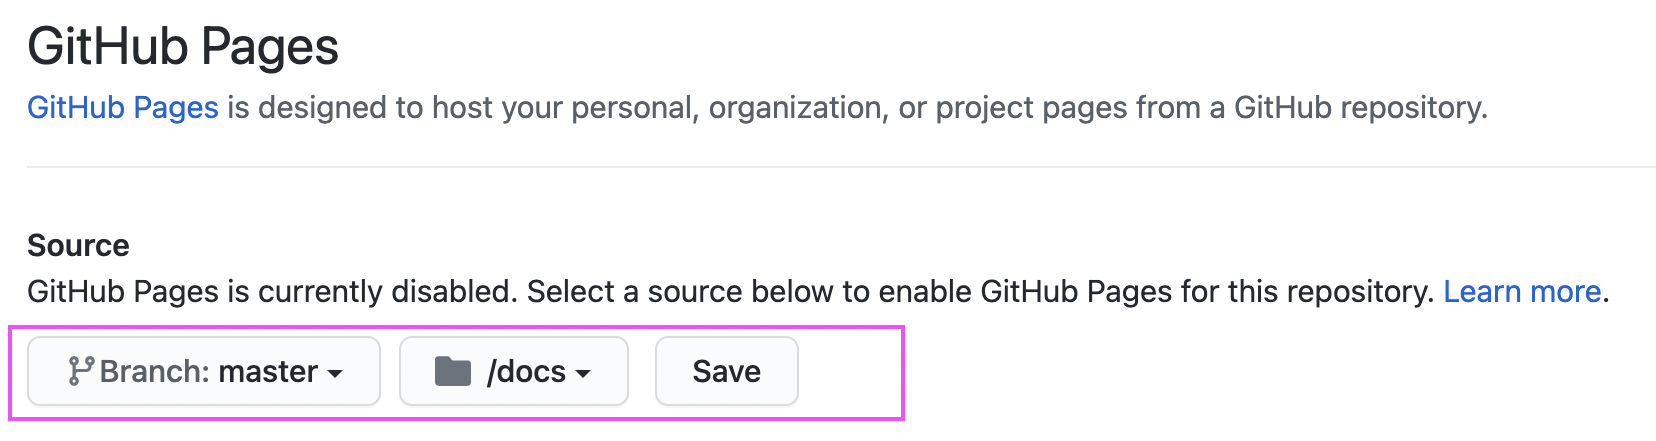
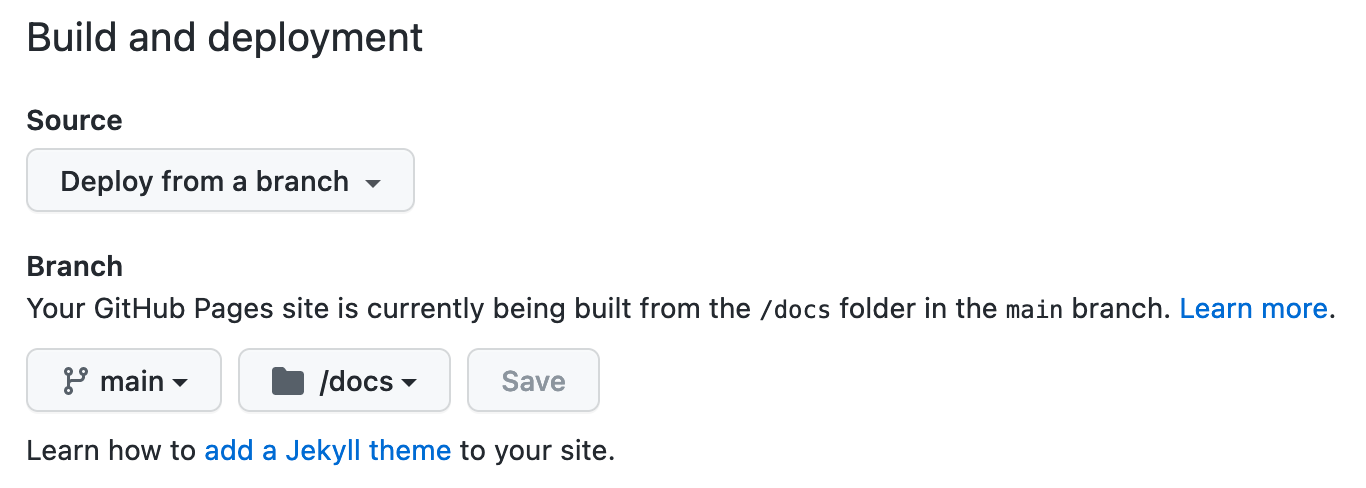
Fix #4

diff --git a/slides/index.html b/slides/index.html
@@ -4,7 +4,7 @@
     <title>Pacotes 📦</title>
     <meta charset="utf-8" />
     <meta name="author" content="" />
-    <script src="libs/header-attrs-2.16/header-attrs.js"></script>
+    <script src="libs/header-attrs-2.17/header-attrs.js"></script>
     <link rel="stylesheet" href="css/xaringan-themer.css" type="text/css" />
   </head>
   <body>
@@ -304,8 +304,11 @@ O pacote `{usethis}` ajuda com todo o fluxo de desenvolvimento em R. Ele ajuda a
 O pacote `{usethis}` realiza ações que são possíveis de fazer manualmente, mas que __demandariam muitos cliques__ e são sujeitas a __erros humanos__. Alguns exemplos de poderes do usethis:
 
 - Criar um projeto com estrutura de pacotes
+
 - Adicionar uma dependência no pacote
+
 - Integrar o pacote com Git e GitHub
+
 - Adicionar uma GitHub Action ao pacote
 
 Apresentaremos várias funções do `{usethis}` ao longo do curso!
@@ -328,10 +331,10 @@ usethis::create_package("~/Documents/meupacote")
 ---
 
 ```
-#&gt; ✓ Creating '/home/clente/Documents/meupacote/'
-#&gt; ✓ Setting active project to '/home/clente/Documents/meupacote'
-#&gt; ✓ Creating 'R/'
-#&gt; ✓ Writing 'DESCRIPTION'
+#&gt; ✔ Creating '/Users/clente/Documents/meupacote/'
+#&gt; ✔ Setting active project to '/Users/clente/Documents/meupacote'
+#&gt; ✔ Creating 'R/'
+#&gt; ✔ Writing 'DESCRIPTION'
 #&gt; Package: meupacote
 #&gt; Title: What the Package Does (One Line, Title Case)
 #&gt; Version: 0.0.0.9000
@@ -341,16 +344,15 @@ usethis::create_package("~/Documents/meupacote")
 #&gt; License: `use_mit_license()`, `use_gpl3_license()` or friends to
 #&gt;     pick a license
 #&gt; Encoding: UTF-8
-#&gt; LazyData: true
 #&gt; Roxygen: list(markdown = TRUE)
-#&gt; RoxygenNote: 7.1.1
-#&gt; ✓ Writing 'NAMESPACE'
-#&gt; ✓ Writing 'meupacote.Rproj'
-#&gt; ✓ Adding '^meupacote\\.Rproj$' to '.Rbuildignore'
-#&gt; ✓ Adding '.Rproj.user' to '.gitignore'
-#&gt; ✓ Adding '^\\.Rproj\\.user$' to '.Rbuildignore'
-#&gt; ✓ Opening '/home/clente/Documents/meupacote/' in new RStudio session
-#&gt; ✓ Setting active project to '&lt;no active project&gt;'
+#&gt; RoxygenNote: 7.2.1
+#&gt; ✔ Writing 'NAMESPACE'
+#&gt; ✔ Writing 'meupacote.Rproj'
+#&gt; ✔ Adding '^meupacote\\.Rproj$' to '.Rbuildignore'
+#&gt; ✔ Adding '.Rproj.user' to '.gitignore'
+#&gt; ✔ Adding '^\\.Rproj\\.user$' to '.Rbuildignore'
+#&gt; ✔ Opening '/Users/clente/Documents/meupacote/' in new RStudio session
+#&gt; ✔ Setting active project to '&lt;no active project&gt;'
 ```
 
 ---
@@ -377,10 +379,7 @@ available::available("chess", browse = FALSE)
 ```
 
 ```
-#&gt; Urban Dictionary can contain potentially offensive results,
-#&gt;   should they be included? [Y]es / [N]o:
-#&gt; 1: No
-#&gt; ── chess ──────────────────────────────────────────────────────────────
+#&gt; ── chess ─────────────────────────────────────────────────────────────────
 #&gt; Name valid: ✔
 #&gt; Available on CRAN: ✖ 
 #&gt; Available on Bioconductor: ✔
@@ -1546,7 +1545,7 @@ pkgdown::build_site()
 
   - No repositório do pacote, clique em **Settings**, e no menu lateral escolha **Pages**
     
-  - Em **Source**, selecione a sua branch principal (provavelmente chama de **main** ou **master**), escolha o diretório `docs/` e clique em **save**
+  - Em **Source**, selecione **Deploy from a branch**, escolha o diretório `docs/` e clique em **save**
     
 &lt;img src="img/githubpages.png" width="50%" style="display: block; margin: auto;" /&gt;
   
@@ -1720,8 +1719,8 @@ jobs:
   R-CMD-check:                                          # Job
     runs-on: ubuntu-latest
     steps:
-      - uses: actions/checkout@v2                       # Use
-      - uses: r-lib/actions/setup-r@v1                  # Use
+      - uses: actions/checkout@v3                       # Use
+      - uses: r-lib/actions/setup-r@v2                  # Use
       - name: Install dependencies                      # Step
         run: |                                          # Action
           install.packages(c("remotes", "rcmdcheck"))

diff --git a/slides/libs/header-attrs-2.17/header-attrs.js b/slides/libs/header-attrs-2.17/header-attrs.js
@@ -1,0 +1,12 @@
+// Pandoc 2.9 adds attributes on both header and div. We remove the former (to
+// be compatible with the behavior of Pandoc < 2.8).
+document.addEventListener('DOMContentLoaded', function(e) {
+  var hs = document.querySelectorAll("div.section[class*='level'] > :first-child");
+  var i, h, a;
+  for (i = 0; i < hs.length; i++) {
+    h = hs[i];
+    if (!/^h[1-6]$/i.test(h.tagName)) continue;  // it should be a header h1-h6
+    a = h.attributes;
+    while (a.length > 0) h.removeAttribute(a[0].name);
+  }
+});
